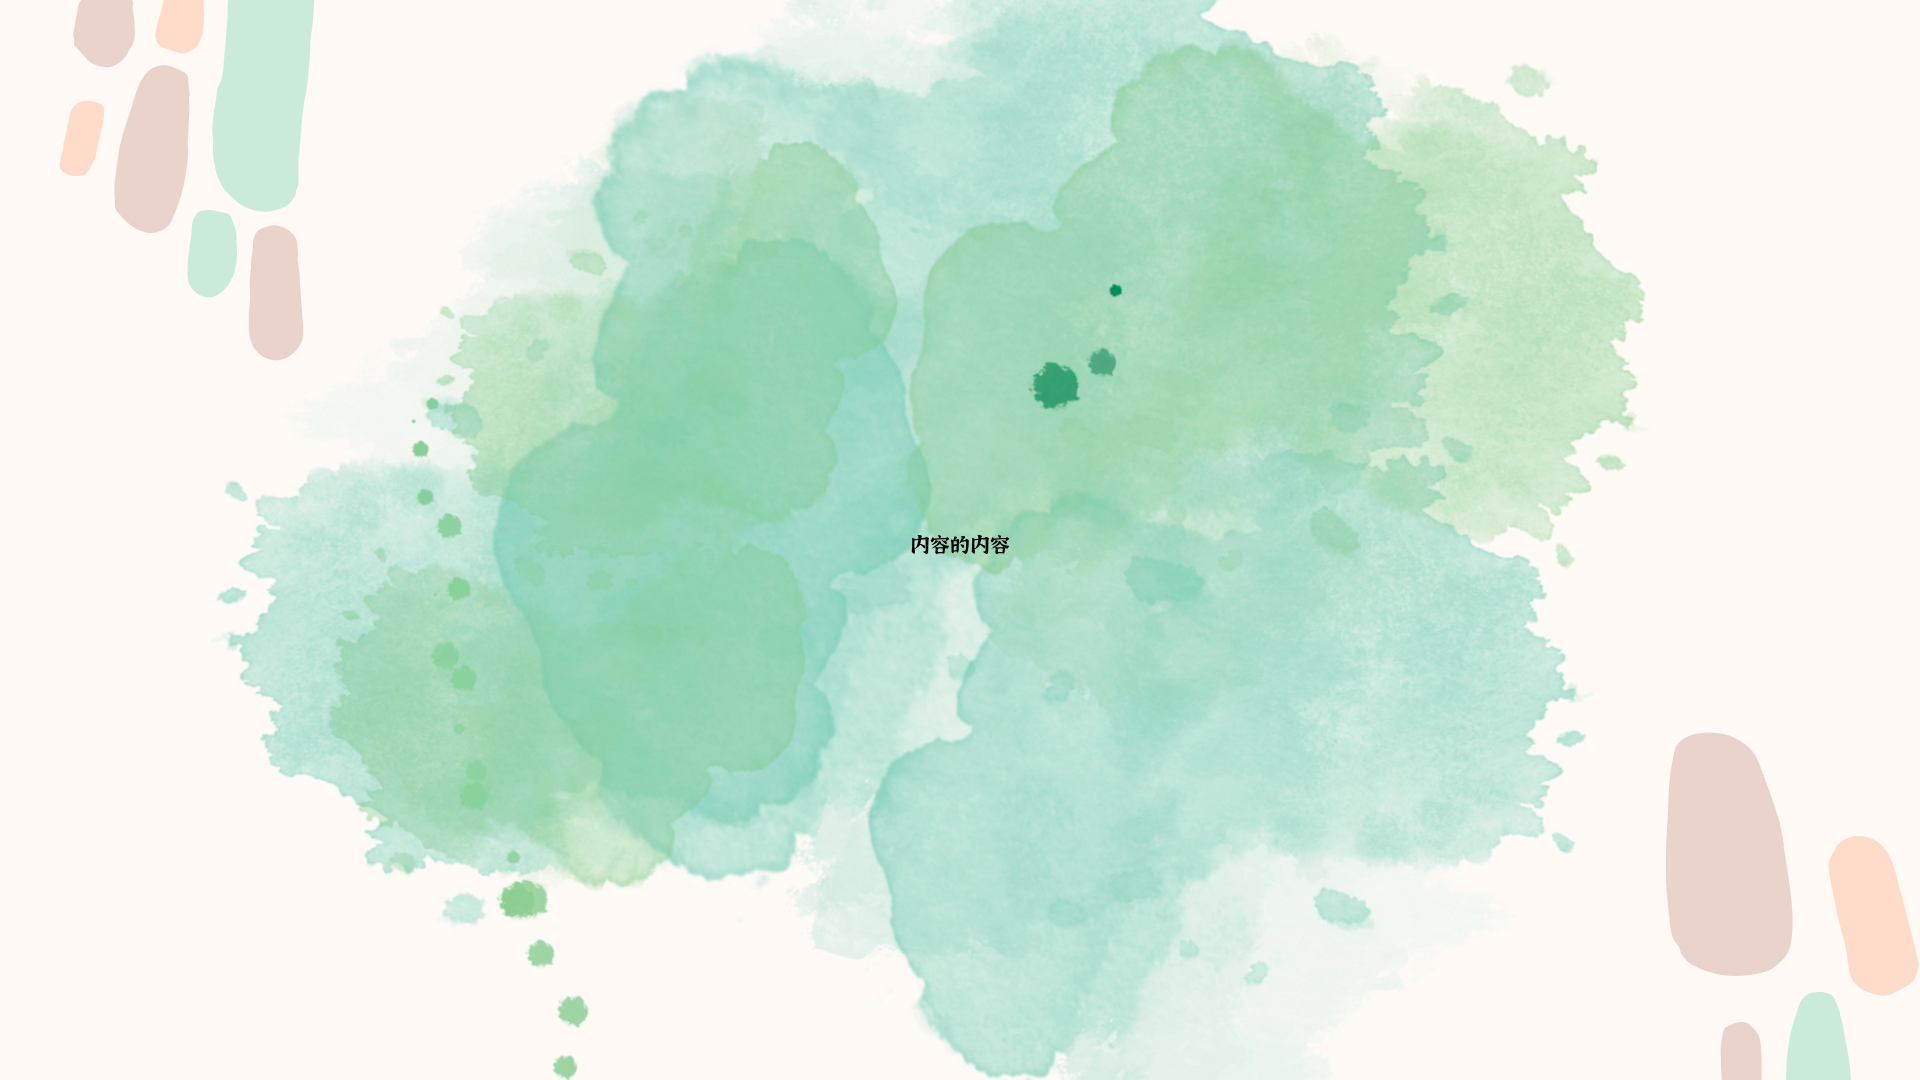
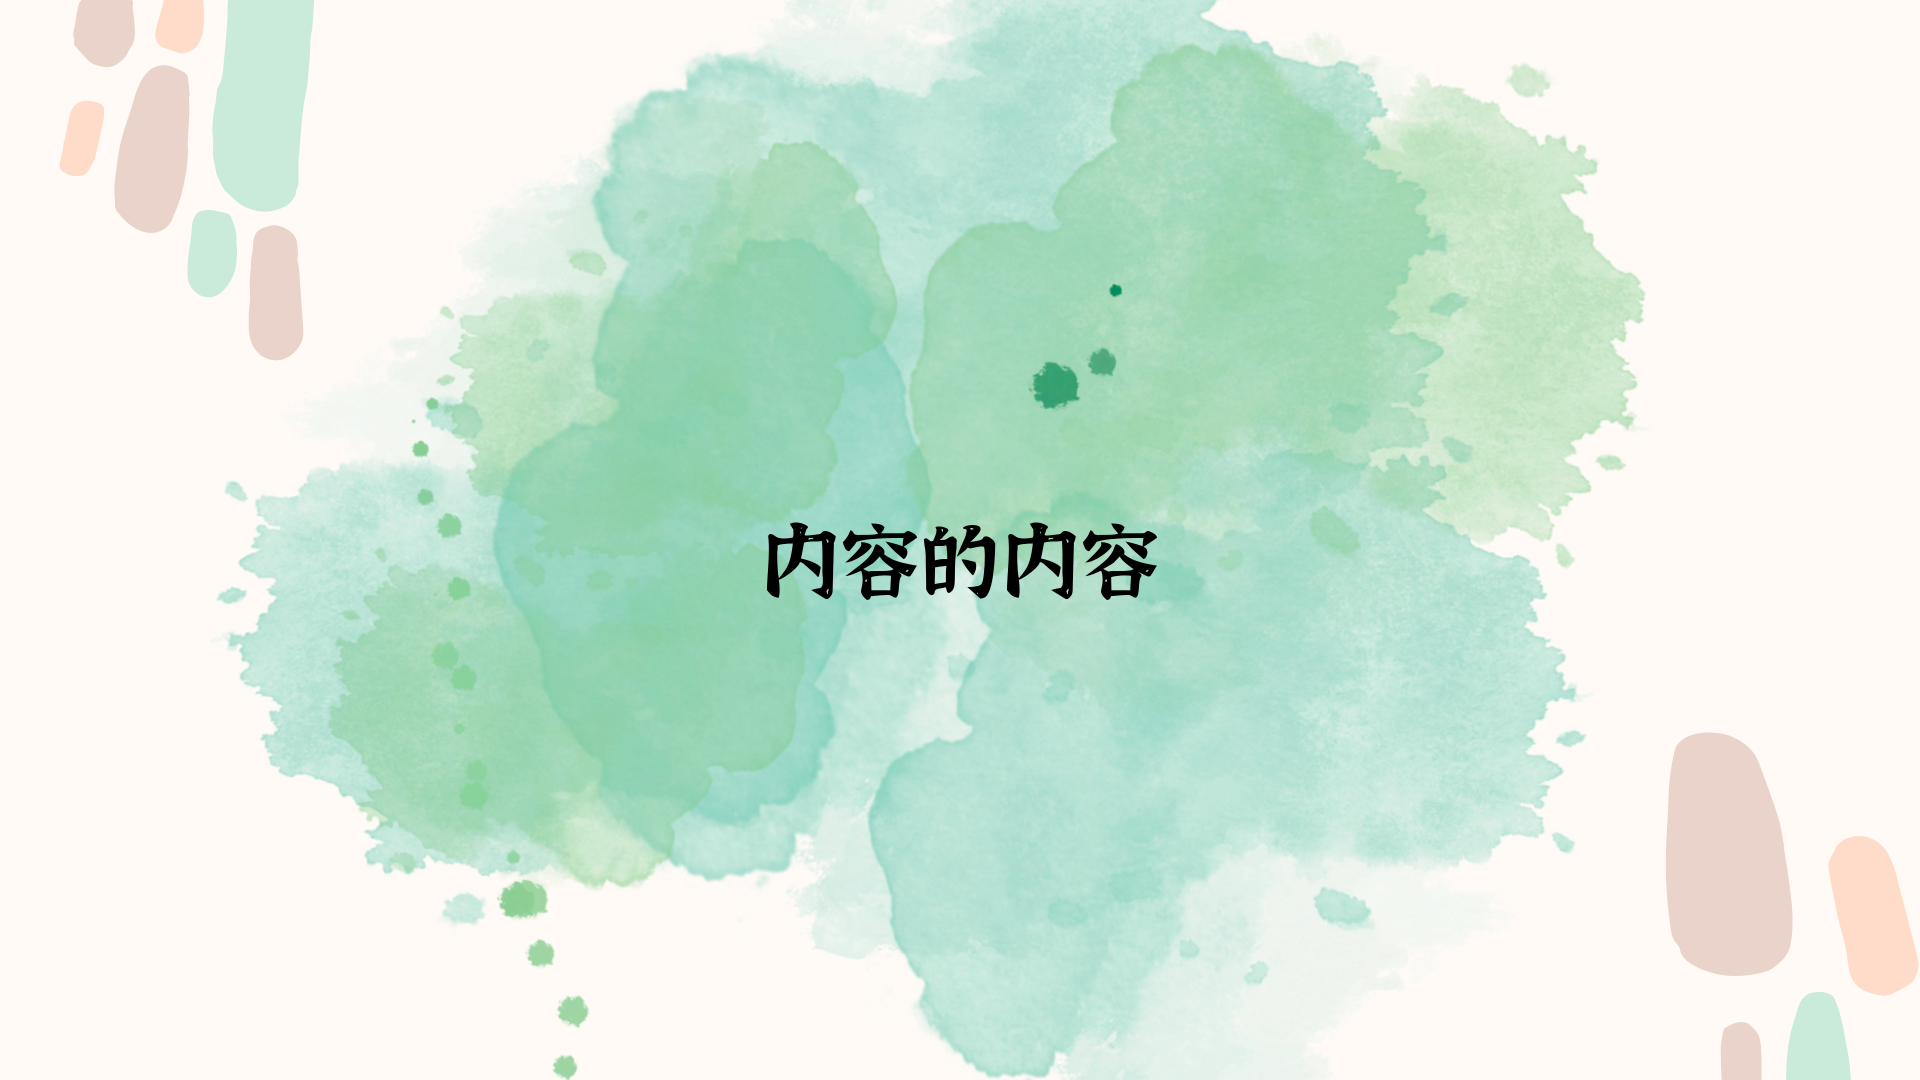
增加手动调整字体大小的功能； 继续进行样式优化。

Changed region(s): [[0.375, 0.4889, 0.625, 0.55]]

diff --git a/src/main.py b/src/main.py
@@ -16,7 +16,17 @@ def load_templates(template_dir):
             templates.append(Image.open(os.path.join(template_dir, filename)))
     return templates
 
-def batch_generate_images(excel_file_path, template_dir, output_directory, font_path=None):
+def batch_generate_images(excel_file_path, template_dir, output_directory, font_path=None, title_font_size=40, content_font_size=20):
+    """
+    批量生成图片，分别添加标题和内容。
+
+    :param excel_file_path: Excel文件路径
+    :param template_dir: 模板目录路径
+    :param output_directory: 输出目录路径
+    :param font_path: 字体文件路径
+    :param title_font_size: 标题字体大小
+    :param content_font_size: 内容字体大小
+    """
     data = read_excel_file(excel_file_path)
     templates = load_templates(template_dir)
 
@@ -25,8 +35,8 @@ def batch_generate_images(excel_file_path, template_dir, output_directory, font_
 
     # 加载字体
     try:
-        title_font = ImageFont.truetype(font_path, 40) if font_path else ImageFont.load_default()
-        content_font = ImageFont.truetype(font_path, 20) if font_path else ImageFont.load_default()
+        title_font = ImageFont.truetype(font_path, title_font_size) if font_path else ImageFont.load_default()
+        content_font = ImageFont.truetype(font_path, content_font_size) if font_path else ImageFont.load_default()
     except OSError:
         print(f"Cannot open font resource: {font_path}. Using default font.")
         title_font = ImageFont.load_default()
@@ -64,9 +74,10 @@ def batch_generate_images(excel_file_path, template_dir, output_directory, font_
             print(f"Generated content image: {content_output_path}")
 
 if __name__ == "__main__":
-    excel_file_path = "/Users/qiao/PycharmProjects/image_batch_generator/data/data.xlsx"
-    template_dir = "/Users/qiao/PycharmProjects/image_batch_generator/templates"
-    output_directory = "/Users/qiao/PycharmProjects/image_batch_generator/images/output"
-    font_path = "/Users/qiao/PycharmProjects/image_batch_generator/font/江西拙楷2.0.ttf"
+    excel_file_path = "data/data.xlsx"  # 确保路径正确
+    template_dir = "templates"  # 确保路径正确
+    output_directory = "images/output"  # 确保路径正确
+    font_path = "font/江西拙楷2.0.ttf"  # 确保路径正确
 
-    batch_generate_images(excel_file_path, template_dir, output_directory, font_path)
+    # 调用函数时可以手动设置标题和内容的字体大小
+    batch_generate_images(excel_file_path, template_dir, output_directory, font_path, title_font_size=100, content_font_size=80)

diff --git a/src/image_processing.py b/src/image_processing.py
@@ -1,5 +1,6 @@
 from PIL import Image, ImageDraw, ImageFont
 
+
 def load_image(image_path):
     """
     加载图像模板。
@@ -18,7 +19,7 @@ def calculate_text_position(image_size, text, font, position_type="center"):
     :param text: 要添加的文字
     :param font: 字体对象
     :param position_type: 文字位置类型，默认居中
-    :return: 计算后的文字位置（x, y）
+    :return: 计算后的文字位置（x, y），调整后的字体对象
     """
     draw = ImageDraw.Draw(Image.new("RGB", image_size))
 
@@ -57,6 +58,7 @@ def add_text_to_image(image, text, position, font, font_color="black"):
     draw = ImageDraw.Draw(image)
     draw.text(position, text, font=font, fill=font_color)
     return image
+
 
 def save_image(image, output_path):
     """
